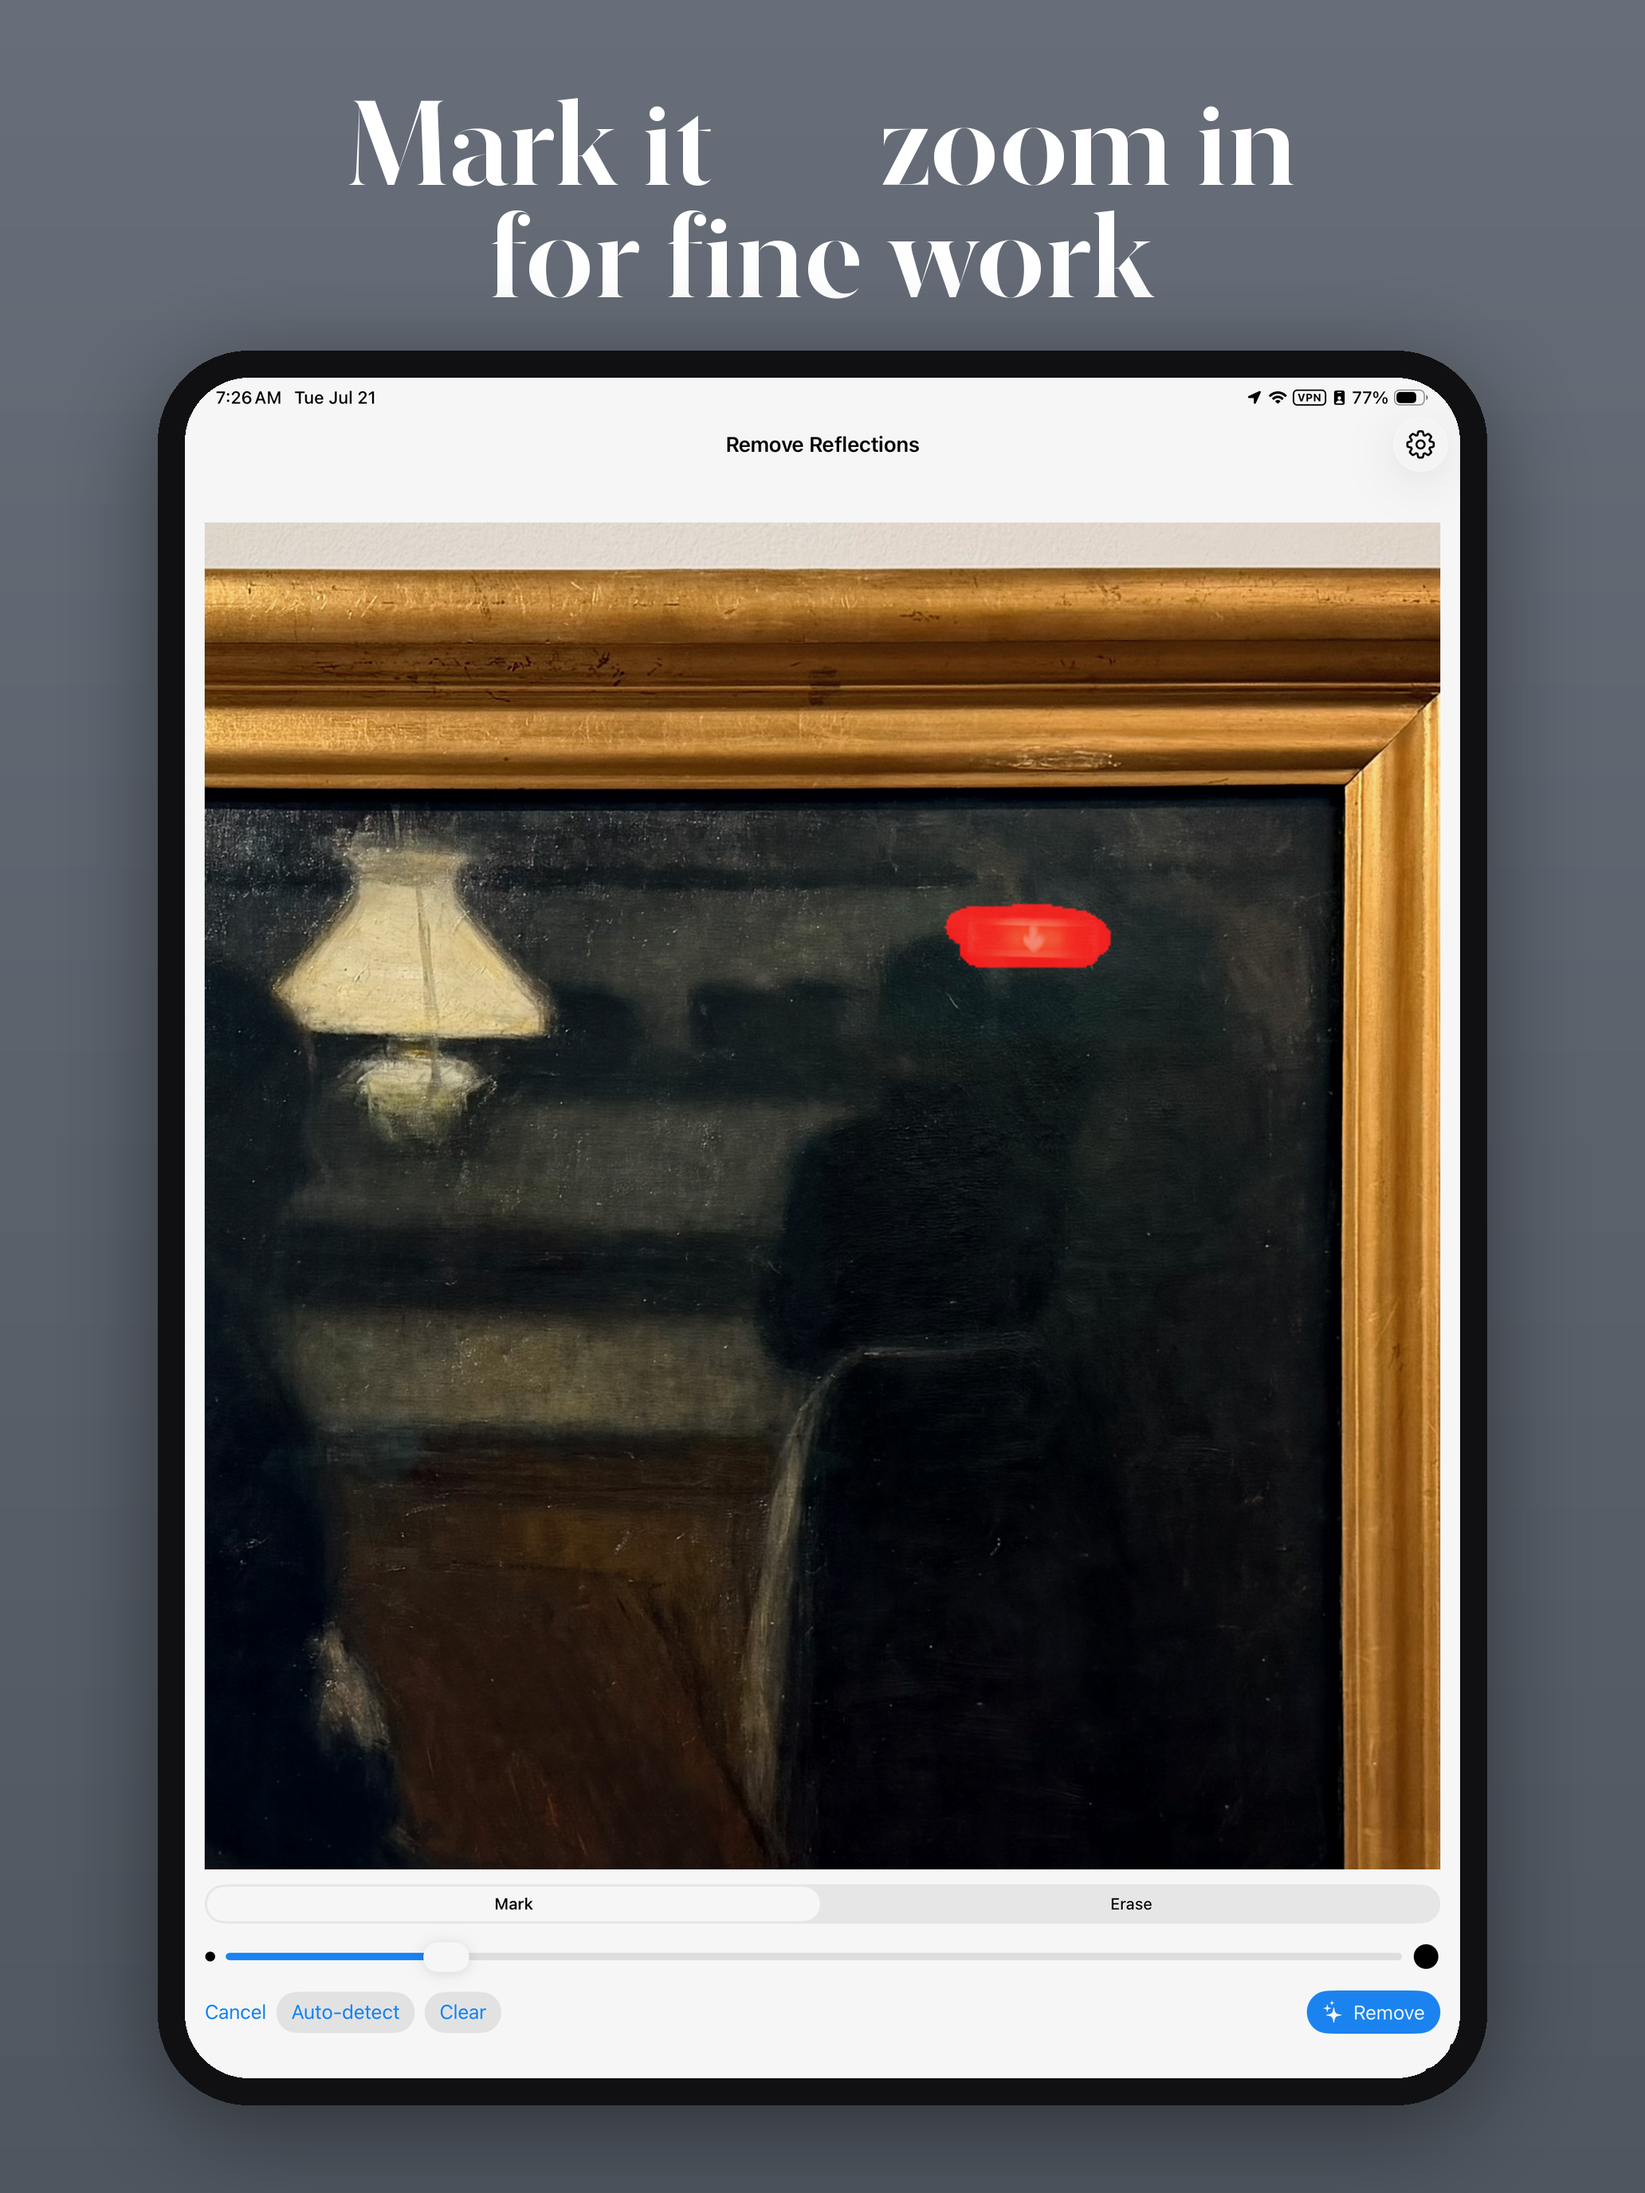
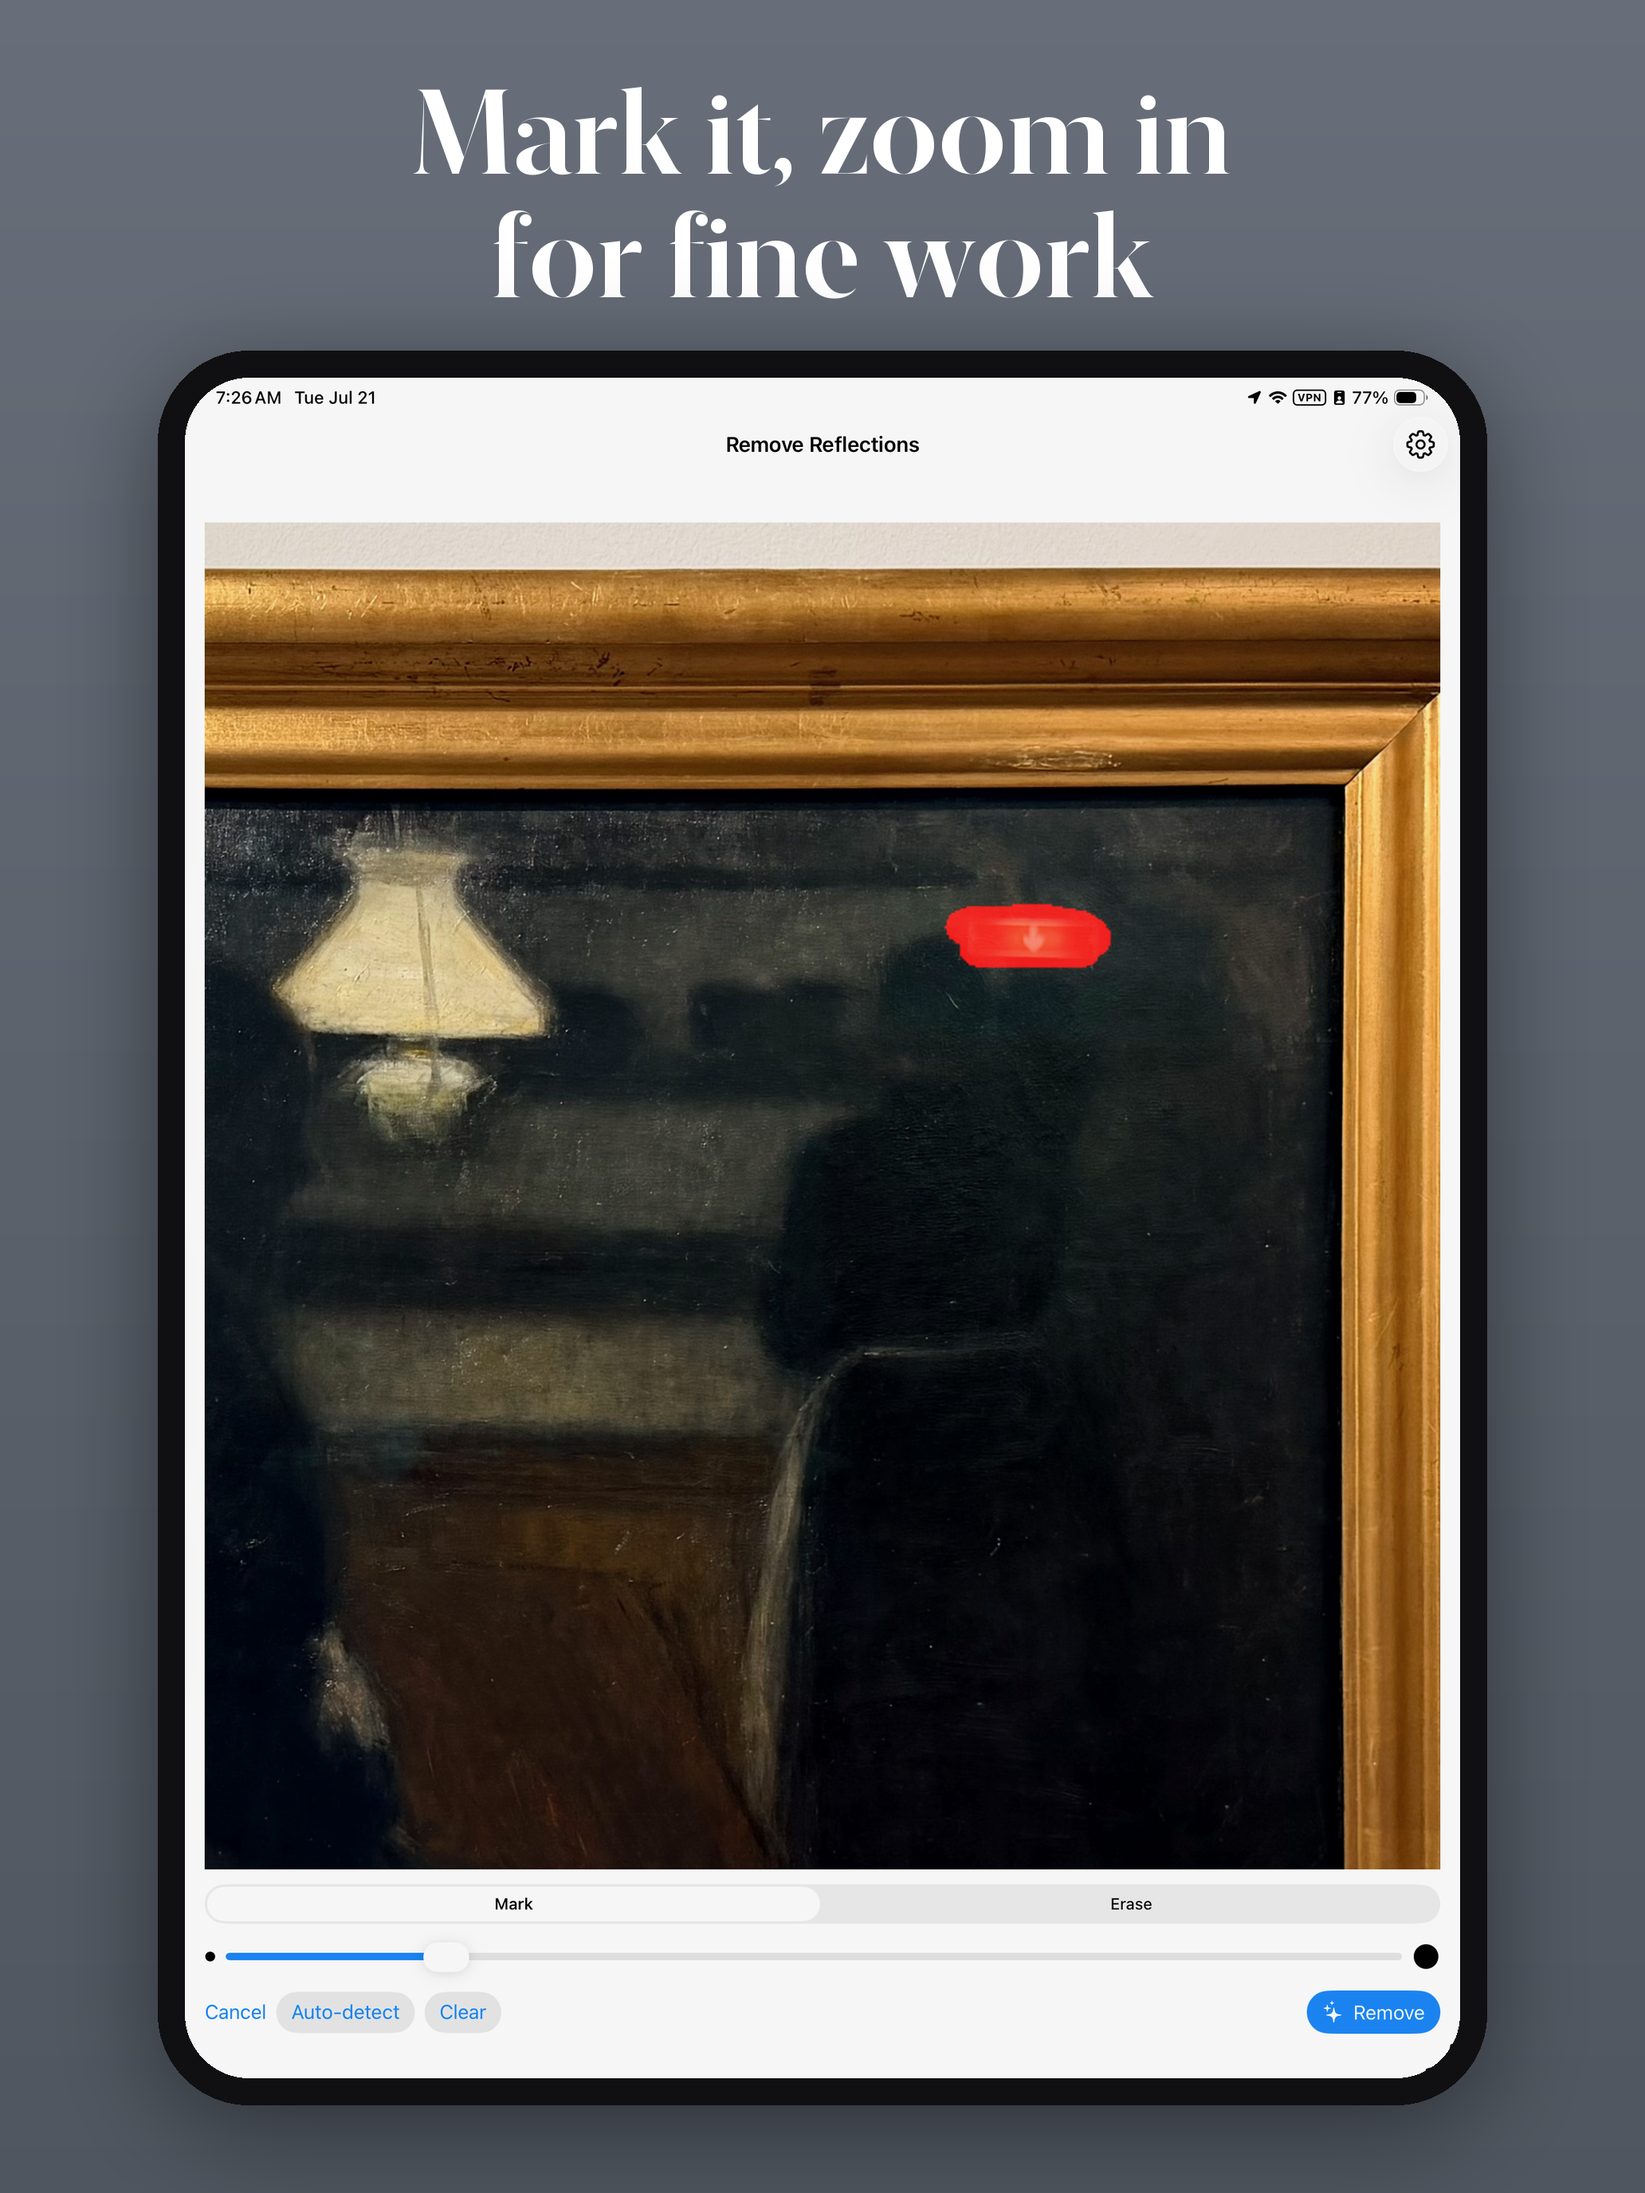
chore: refresh App Store screenshots for 1.6.0
- iPad 03 and 06: the em dash in the New York caption font rendered as a
  blank gap; captions now use commas. 03 keeps its original device area
  (the raw in Raw/ is the cropped artwork, not the editor screenshot) with
  only the caption band repainted.
- iPad and iPhone 08: Settings recaptured on the iPad Pro 13-inch and
  iPhone 18 Pro Max iOS 27 simulators, now showing the Appearance section.
- Both scripts: shot 10 caption says in-app camera instead of system
  camera. The shot itself still shows the old system camera UI and must be
  recaptured on hardware from the 1.6.0 TestFlight build.
- Drop tracked __pycache__ and ignore it.

Changed region(s): [[0.4961, 0.0312, 0.8062, 0.125], [0.2171, 0.0312, 0.4651, 0.125]]

diff --git a/Design/Screenshots/make_ipad_shots.py b/Design/Screenshots/make_ipad_shots.py
@@ -7,7 +7,7 @@ black iPad device frame with the screenshot inside. Canvas 2064x2752
 Usage:  python3 make_ipad_shots.py [source-folder]
 
 Source folder (default ~/Temp) must contain raw 2064x2752 screenshots named
-iPad_1.png .. iPad_8.png, in the order of the SHOTS table below. Entries with
+iPad_1.png .. iPad_11.png, in the order of the SHOTS table below. Entries with
 mode "plain" (e.g. an exported artwork rather than an app screenshot) are
 shown directly on the background without a device frame. Output goes to
 Design/Screenshots/iPad/PictureFramer_NN.png.
@@ -38,14 +38,14 @@ INNER_RADIUS = 80
 SHOTS = [
     ("iPad_1.png", "Museum photos,\nperfected", "device"),
     ("iPad_2.png", "The frame is found\nfor you", "device"),
-    ("iPad_3.png", "Straight — with real\nwall around it", "device"),
+    ("iPad_3.png", "Straight, with real\nwall around it", "device"),
     ("iPad_4.png", "Full resolution, back\nin your library", "device"),
     ("iPad_5.png", "Glare on the glass?", "device"),
-    ("iPad_6.png", "Mark it — zoom in\nfor fine work", "device"),
+    ("iPad_6.png", "Mark it, zoom in\nfor fine work", "device"),
     ("iPad_7.png", "AI restores the\nartwork underneath", "device"),
     ("iPad_8.png", "Your AI provider,\nyour key", "device"),
     ("iPad_9.png", "Or shoot it right\nin the app", "device"),
-    ("iPad_10.png", "Frame it with the\nsystem camera", "device"),
+    ("iPad_10.png", "Frame it with the\nin-app camera", "device"),
     ("iPad_11.png", "Straight from\nthe camera", "device"),
 ]
 

diff --git a/Design/Screenshots/make_iphone_shots.py b/Design/Screenshots/make_iphone_shots.py
@@ -44,7 +44,7 @@ CAPTIONS = [
     "AI restores the\nartwork underneath",
     "Your AI provider,\nyour key",
     "Or shoot it right\nin the app",
-    "Frame it with the\nsystem camera",
+    "Frame it with the\nin-app camera",
     "Straight from\nthe camera",
 ]
 
